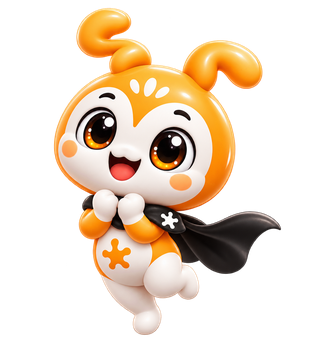
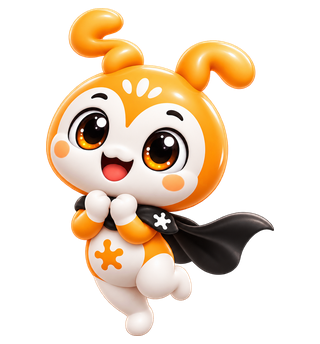
Sửa ảnh linh vật bị viền/mảng thừa xung quanh (halo alpha mờ)
Ảnh nguồn linhvạt có halo alpha rất mờ (1-44) lan rộng ngoài nhân vật; trước
đây trim bằng getbbox (alpha>0) nên lấy cả halo → hiện mảng vuông thừa + mảnh
trắng lạc quanh linh vật (thấy rõ ở modal đăng xuất).

- Xử lý lại 6 ảnh: xoá pixel alpha < 45 trước khi trim → bbox ôm sát nhân vật,
  hết halo; kiểm tra sạch trên nền magenta và nền sáng như modal.
- Thêm ?v=2 vào URL ảnh trong blob-mascot.js để ép trình duyệt tải ảnh mới
  (ảnh nạp qua JS không có cache-bust của template).

Changed region(s): [[0.125, 0.0, 0.875, 0.9884]]

diff --git a/public/blob-mascot.js b/public/blob-mascot.js
@@ -15,6 +15,9 @@
   "use strict";
 
   var BASE = "/assets/images/mascot/camio-";
+  // Ảnh nạp qua JS (không có ?v của template) — bump VER khi đổi ảnh để ép
+  // trình duyệt tải lại, khỏi phải Ctrl+F5.
+  var VER = "?v=2";
 
   // Ánh xạ tên cảm xúc (kể cả các mood cũ) sang 1 trong 6 biểu cảm CamiO.
   var EXPR = {
@@ -28,12 +31,12 @@
   var KEYS = ["vuive", "haohung", "thichthu", "ngacnhien", "tutin", "baocao"];
 
   function fileFor(mood) {
-    return BASE + (EXPR[mood] || "vuive") + ".png";
+    return BASE + (EXPR[mood] || "vuive") + ".png" + VER;
   }
   function clamp(v, lo, hi) { return v < lo ? lo : v > hi ? hi : v; }
 
   // Nạp trước 6 ảnh để đổi biểu cảm không bị chớp.
-  KEYS.forEach(function (k) { var i = new Image(); i.src = BASE + k + ".png"; });
+  KEYS.forEach(function (k) { var i = new Image(); i.src = BASE + k + ".png" + VER; });
 
   function create(opts) {
     opts = opts || {};
